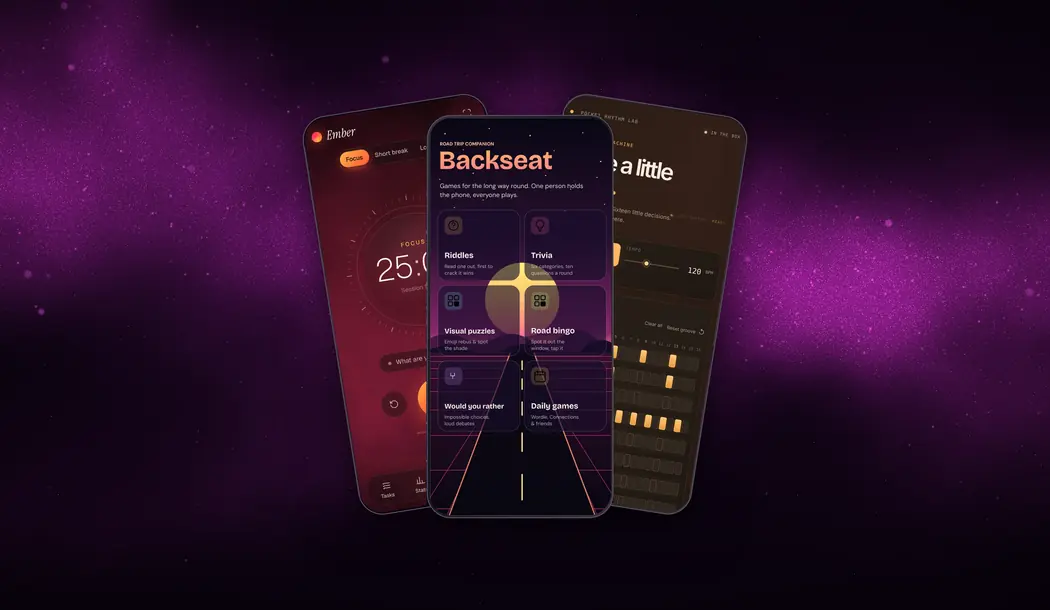
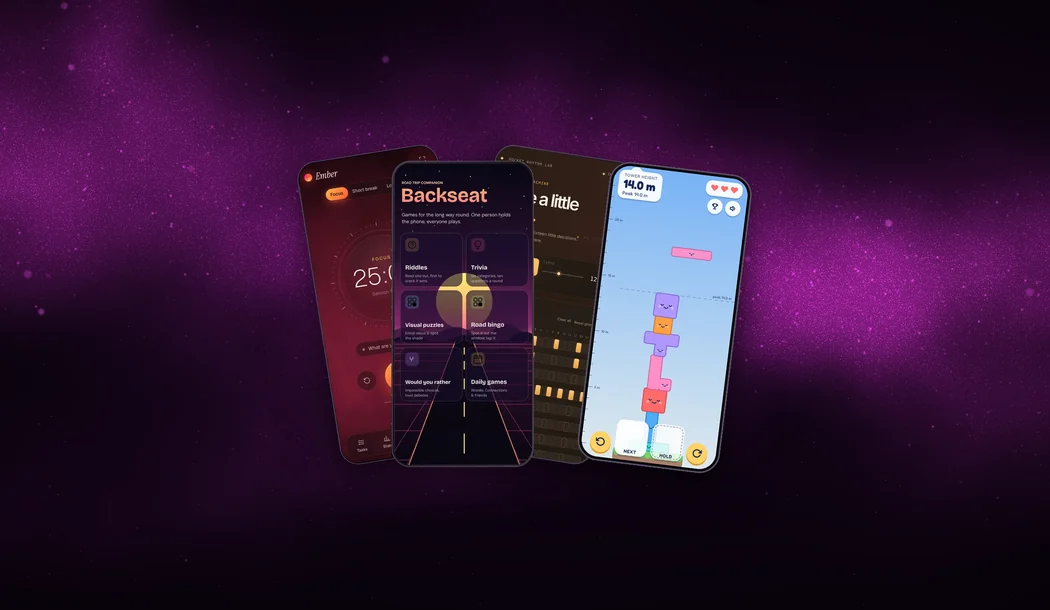
Add Wobble Tower to the home page side projects tile
Rebuilt the tile on the same plum background with the original three
phones scaled down and a Wobble Tower phone on the right, all inside the
centre band that the desktop crop keeps. Alt text updated.

Claude-Session: https://claude.ai/code/session_01C1U52sFBhvk6T7H5ub9uAS

Changed region(s): [[0.2743, 0.1557, 0.7314, 0.8721]]

diff --git a/index.html b/index.html
@@ -76,7 +76,7 @@
         <span class="meta mono">International Monetary Fund / Team of 3 / 2020</span>
       </a></li>
       <li class="work-item"><a href="side-projects.html">
-        <span class="thumb cover" style="background:#1A0B22"><img src="images/home/tile-side-projects-1050.webp" srcset="images/home/tile-side-projects-1050.webp 1050w, images/home/tile-side-projects.webp 2098w" sizes="(max-width:860px) 100vw, 66vw" width="2098" height="1218" alt="Three phones showing Pomodoro Pal, Backseat and 808 Pocket" loading="lazy" decoding="async"></span>
+        <span class="thumb cover" style="background:#1A0B22"><img src="images/home/tile-side-projects-1050.webp" srcset="images/home/tile-side-projects-1050.webp 1050w, images/home/tile-side-projects.webp 2098w" sizes="(max-width:860px) 100vw, 66vw" width="2098" height="1218" alt="Four phones showing Pomodoro Pal, Backseat, 808 Pocket and Wobble Tower" loading="lazy" decoding="async"></span>
         <h3>Side projects, built with AI</h3><span class="ar" aria-hidden="true">→</span>
         <p>A focus timer, a road trip game, a drum machine and a stacking game. I built all four with Claude, and they’re all live to try.</p>
         <span class="meta mono">Personal / Design and build / Ongoing</span>
